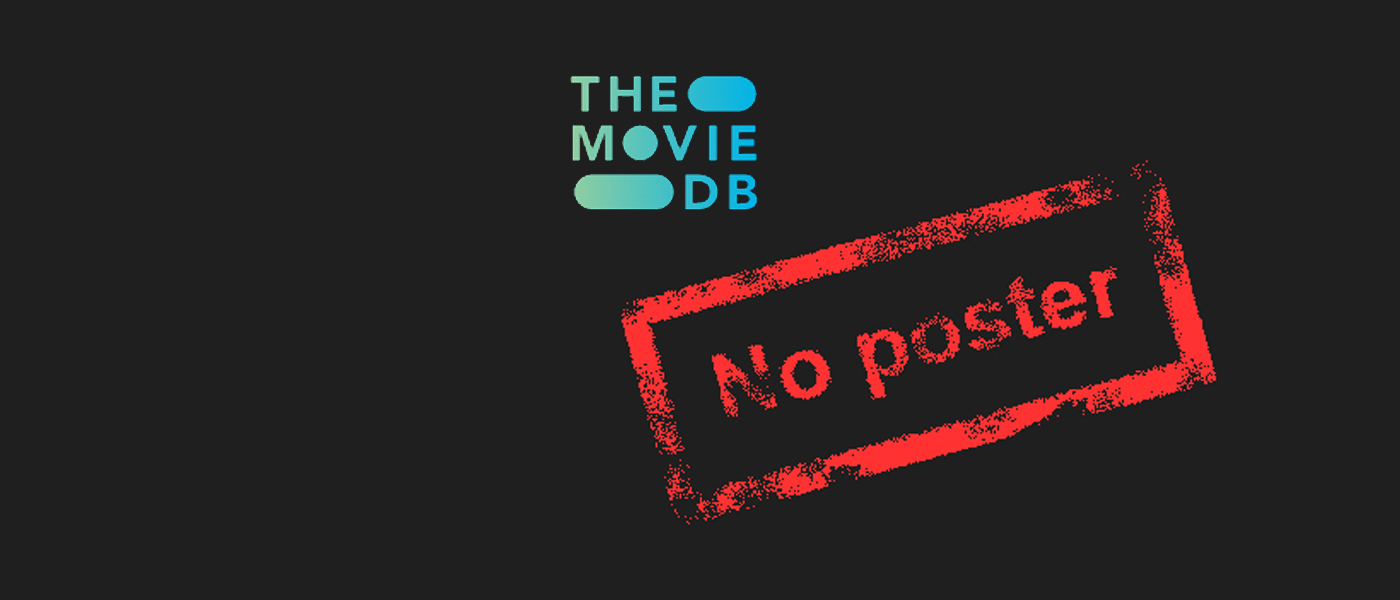
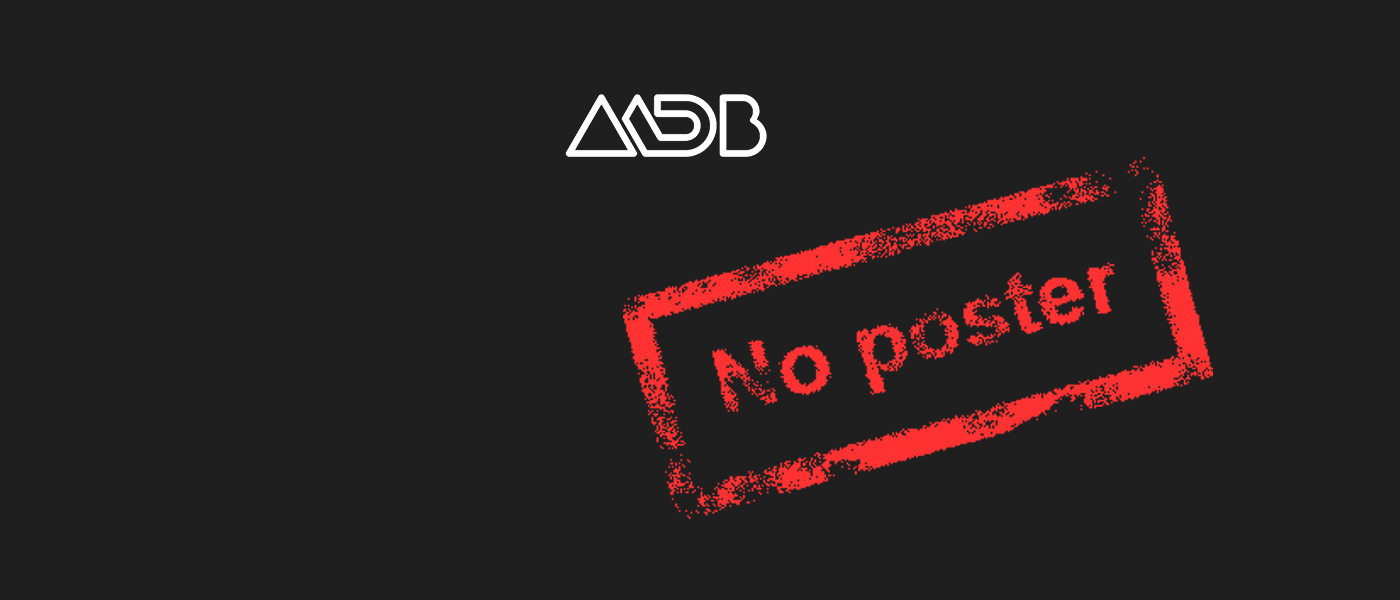
change logp

Changed region(s): [[0.43, 0.27, 0.8907, 0.87], [0.3993, 0.12, 0.5529, 0.36]]

diff --git a/src/ui/shared/components/Logo/Logo.styled.js b/src/ui/shared/components/Logo/Logo.styled.js
@@ -5,15 +5,15 @@ import logoM from '../../../assets/images/logo-m.svg';
 export const Logotype = styled(Link)`
     flex-shrink: 0;
     display: flex;
-    width: 80px;
-    aspect-ratio: 2 / 1;
+    width: 90px;
+    aspect-ratio: 3.125 / 1;
     background-image: url(${logoM});
     background-position: center;
     background-repeat: no-repeat;
     background-size: contain;
     &.footer-logo {
         width: 90px;
-        aspect-ratio: 2.3346 / 1;
+        aspect-ratio: 3.125 / 1;
         margin-left: auto;
         margin-right: auto;
         margin-bottom: 24px;
